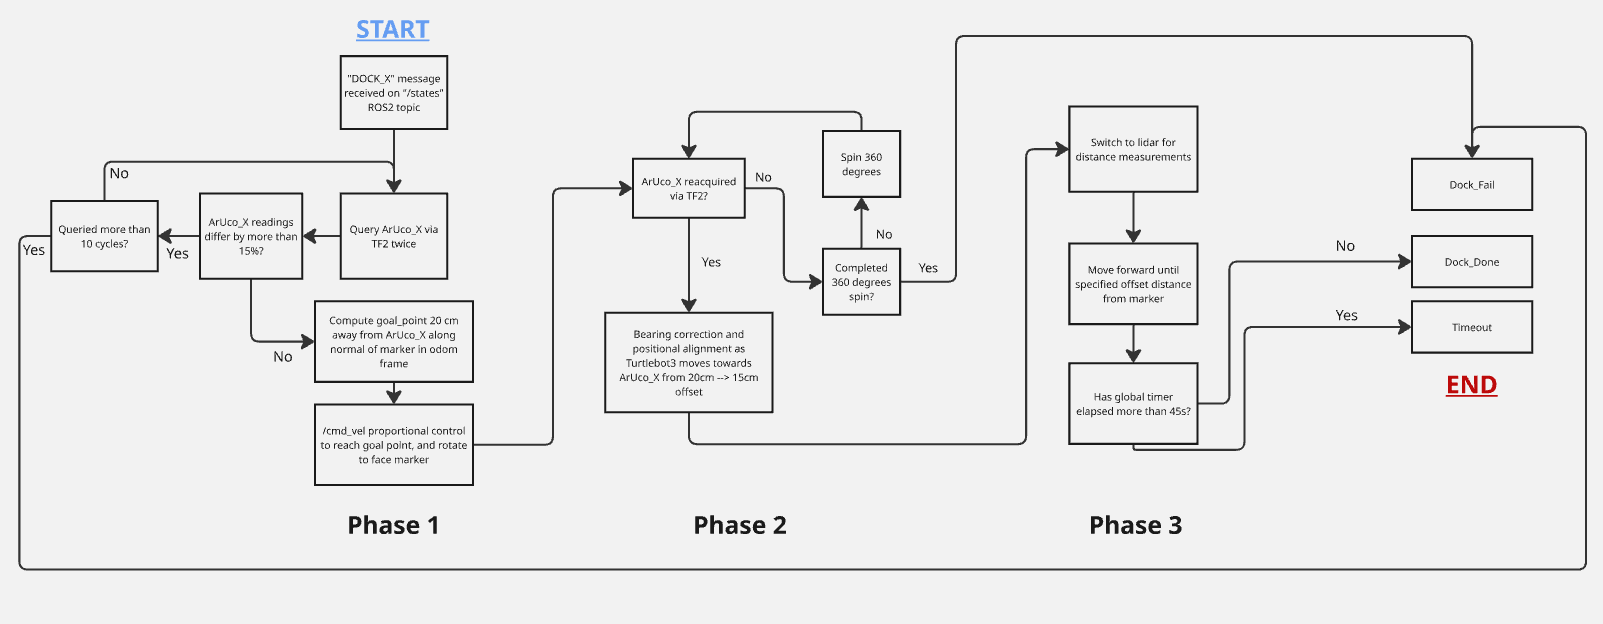
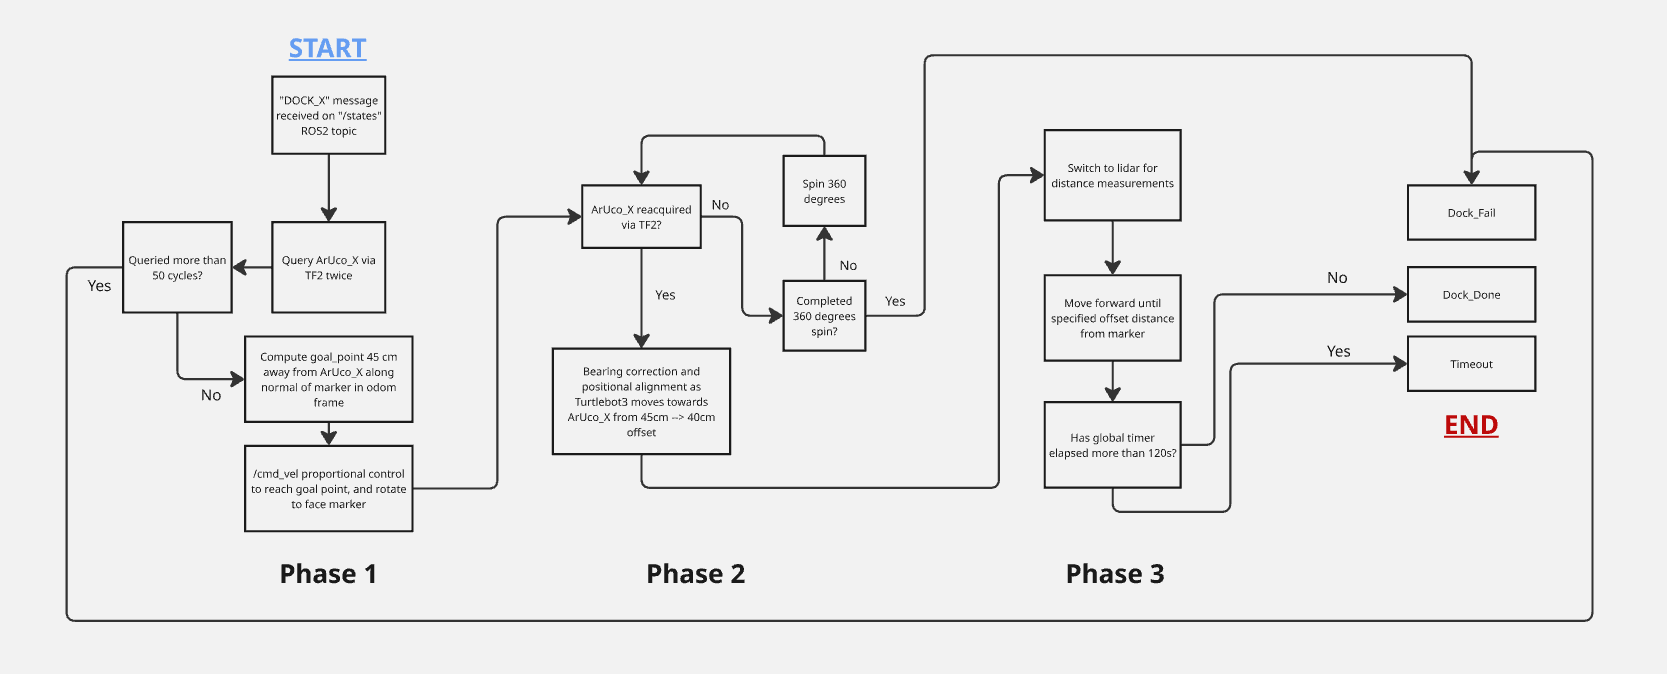
docs(node-docs): rewrite fsm/docking/exploration and add aruco_detector2, dynamic_launch, mainlaunch summaries

diff --git a/software/remote-pc/auto_nav/auto_nav/node-docs/fsm_controller.md b/software/remote-pc/auto_nav/auto_nav/node-docs/fsm_controller.md
@@ -2,11 +2,13 @@
 
 ## Overview
 
-The system is controlled using a Finite State Machine (FSM) implemented in the `fsm_controller` node.
-
-The FSM coordinates navigation, perception (ArUco detection), docking, and launching subsystems to execute the mission autonomously. Communication between subsystems is centralized via a unified `/operation_status` topic.
-
-Unlike a fixed-state FSM (e.g., DOCK_A, DOCK_B), this implementation dynamically handles multiple markers using marker IDs (e.g., `DOCK_3`, `LAUNCH_3`).
+The mission is orchestrated by the `fsm_controller` node. It publishes
+the active mission state on `/states`, listens for execution feedback
+on `/operation_status`, and polls the TF tree directly for ArUco
+markers (frames `aruco_marker_<id>`) to decide when to break out of
+exploration and begin docking. Unlike a hard-coded state set, docking
+and exploration are parameterised by the detected marker ID
+(e.g. `DOCK_3`, `EXPLORE_1`).
 
 ---
 
@@ -17,42 +19,31 @@ Unlike a fixed-state FSM (e.g., DOCK_A, DOCK_B), this implementation dynamically
 
 ## State Definitions
 
-### INIT
-System startup and initialization of all ROS2 nodes.
+### EXPLORE / EXPLORE_<id>
+Robot runs frontier-based exploration. While in this state the FSM
+continuously polls the TF tree for known markers (`aruco_marker_<id>`)
+and publishes the matching exploration sub-state:
 
----
+- `EXPLORE` — no marker targeted yet; pure frontier search.
+- `EXPLORE_<id>` — a marker is visible but still further than the
+  docking trigger threshold (0.8 m); the exploration node is told to
+  head toward it while continuing frontier search.
 
-### EXPLORE
-Robot performs exploration (e.g., frontier-based with Nav2) while searching for ArUco markers.
+Completed markers are added to a skip list and never re-detected.
 
-- Subscribes to `/aruco_pose`
-- Detects markers and extracts marker ID
-- Publishes marker ID on `/current_marker`
-- Transitions to docking when a marker is detected
+### DOCK_<id>
+Triggered when a locked-on marker comes within 0.8 m of `base_link`.
+Docking is executed by `docking_node` (three-phase: odom → TF →
+LIDAR). Up to 2 dock attempts are allowed per marker.
 
----
+### STATIC_LAUNCH / DYNAMIC_LAUNCH
+Dispatched after `DOCK_DONE` based on the docked marker ID:
 
-### DOCK_<marker_id>
-Robot docks at the detected station using the ArUco marker.
-
-- Triggered dynamically (e.g., `DOCK_3`, `DOCK_5`)
-- Docking handled by `docking_node`
-- Uses TF + LIDAR-based multi-phase docking
-- FSM tracks docking attempts for fault tolerance
-
----
-
-### LAUNCH_<marker_id>
-Robot performs payload delivery (e.g., launching ping pong balls).
-
-- Triggered after docking completes or times out
-- Marker ID is preserved (e.g., `LAUNCH_3`)
-- On completion, increments delivered marker count
-
----
+- Marker 1 → `STATIC_LAUNCH`
+- Marker 2 → `DYNAMIC_LAUNCH`
 
 ### END
-Mission complete. Robot stops all operations.
+Mission complete. FSM logs "Mission Complete!" and stops transitioning.
 
 ---
 
@@ -60,92 +51,61 @@ Mission complete. Robot stops all operations.
 
 ### Normal Operation
 
-- INIT → EXPLORE (after initialization)
-- EXPLORE → DOCK_<id> (when marker is detected)
-- DOCK_<id> → LAUNCH_<id> (on `DOCK_DONE`)
-- LAUNCH_<id> → EXPLORE (on `LAUNCH_DONE`)
-- EXPLORE → END (when map explored AND required markers completed)
+- `EXPLORE` → `EXPLORE_<id>` when a marker is spotted beyond 0.8 m
+- `EXPLORE*` → `DOCK_<id>` when the target marker is within 0.8 m
+- `DOCK_<id>` → `STATIC_LAUNCH` / `DYNAMIC_LAUNCH` on `DOCK_DONE`
+- `STATIC_LAUNCH` / `DYNAMIC_LAUNCH` → `EXPLORE` on `LAUNCH_DONE`
 
 ---
 
-### Error Handling & Recovery
+### Error Handling
 
-The FSM incorporates fault handling using `/operation_status`.
+Error feedback is received on `/operation_status`:
 
-#### Docking Failures
-- `DOCK_FAIL`:
-  - Retry docking **once**
-  - If failure occurs twice → transition to `END`
-
-#### Docking Timeout
-- `TIMEOUT`:
-  - Assumed robot is sufficiently aligned
-  - FSM proceeds directly to `LAUNCH_<id>`
-
-#### Navigation Failures
-- `NAV_FAIL`:
-  - Return to `EXPLORE`
-
-#### Launch Failures
-- `LAUNCH_FAIL`:
-  - Retry launch in the same state
-
-#### Marker Loss
-- `MARKER_LOST`:
-  - Return to `EXPLORE`
+- `DOCK_FAIL` — retry docking up to 2 attempts total. If the second
+  attempt also fails, the marker is added to the completed set (so it
+  is skipped in future) and the FSM returns to `EXPLORE`.
+- `TIMEOUT` — return to `EXPLORE`, clear target marker, reset dock
+  attempt counter.
+- `LAUNCH_FAIL` — re-publish the relevant launch state
+  (`STATIC_LAUNCH` / `DYNAMIC_LAUNCH`).
+- `NAV_FAIL`, `MARKER_LOST` — return to `EXPLORE`.
 
 ---
 
-## Communication Architecture
+## Communication
 
 ### Topics
 
-| Topic | Type | Description |
-|------|------|------------|
-| `/states` | String | FSM state commands (e.g., `DOCK_3`) |
-| `/operation_status` | String | Feedback from subsystems |
-| `/aruco_pose` | PoseStamped | Marker detection input |
-| `/current_marker` | Int32 | Current marker ID |
+| Topic | Type | Direction | Description |
+|------|------|-----------|------------|
+| `/states` | `std_msgs/String` | FSM → nodes | Mission state commands (`EXPLORE`, `EXPLORE_<id>`, `DOCK_<id>`, `STATIC_LAUNCH`, `DYNAMIC_LAUNCH`, `END`) |
+| `/operation_status` | `std_msgs/String` | nodes → FSM | Feedback strings (see below) |
 
----
+### `/operation_status` values
 
-### Message Protocol (`/operation_status`)
+**Success:** `DOCK_DONE`, `LAUNCH_DONE`, `MAP_DONE`
 
-#### Success Messages
-- `DOCK_DONE`
-- `LAUNCH_DONE`
-- `MAP_DONE`
+**Errors:** `DOCK_FAIL`, `LAUNCH_FAIL`, `NAV_FAIL`, `MARKER_LOST`,
+`TIMEOUT`, `LAUNCH_TIMEOUT`, `LAUNCH_INCOMPLETE`
 
-#### Error Messages
-- `DOCK_FAIL`
-- `LAUNCH_FAIL`
-- `NAV_FAIL`
-- `MARKER_LOST`
-- `TIMEOUT`
+### Marker discovery
+
+The FSM reads the TF tree directly (it does not subscribe to a
+dedicated marker topic). Every 0.5 s it scans for `aruco_marker_<id>`
+frames, looks up the transform to `base_link`, and uses the Euclidean
+distance to decide between `EXPLORE_<id>` and `DOCK_<id>`.
 
 ---
 
 ## Key Design Features
 
-### Dynamic Marker Handling
-- No hardcoded stations (A/B)
-- Scales to any number of markers
-
-### Centralized Feedback Channel
-- All subsystems report to `/operation_status`
-- Simplifies debugging and integration
-
-### Fault-Tolerant Execution
-- Controlled retry logic for docking
-- Graceful fallback on timeout
-- No infinite retry loops
-
-### Decoupled Architecture
-- FSM = decision-making layer
-- Execution handled by separate nodes (Nav2, docking, launcher)
-
----
-
-## Summary
-
-The FSM provides a robust, scalable, and modular control architecture for autonomous mission execution. By combining dynamic state representation, centralized communication, and fault handling—including retry logic and timeout-based fallback—the system achieves reliable operation in uncertain environments.
+- **Dynamic marker handling** — `DOCK_<id>`, `EXPLORE_<id>` scale to
+  any marker without hard-coded stations.
+- **Target locking** — once a marker is seen beyond the docking
+  threshold, the FSM locks onto that ID until completion, ignoring
+  other markers.
+- **Completed-marker skip list** — a marker that succeeds (or fails
+  twice) is added to `completed_markers` and never re-selected.
+- **Fault tolerance** — bounded dock retries, `TIMEOUT`-to-explore
+  fallback, and graceful mission-end on unrecoverable errors.

diff --git a/software/remote-pc/auto_nav/auto_nav/node-docs/exploration.md b/software/remote-pc/auto_nav/auto_nav/node-docs/exploration.md
@@ -1,26 +1,34 @@
 ## Autonomous Exploration
 
 ### SLAM and Navigation2
-In this project, SLAM is implemented using ROS 2 on the TurtleBot3 platform. The TurtleBot3 is equipped with a 2D LiDAR sensor, wheel encoders, and an onboard IMU (SLAM, 2023). These sensors provide laser scan data for obstacle detection and mapping (/scan), odometry data for motion estimation (/odom) and IMU data for orientation refinement.
+In this project, SLAM is implemented on top of ROS 2 on the TurtleBot3 platform. The TurtleBot3 is equipped with a 2D LiDAR sensor, wheel encoders, and an onboard IMU. These sensors provide laser scan data for obstacle detection and mapping (`/scan`), odometry data for motion estimation (`/odom`), and IMU data for orientation refinement.
 
-The SLAM process is carried out using SLAM Toolbox, which performs graph-based SLAM. Robot poses are represented as nodes in a graph and sensor constraints are used to optimize the map. This approach improves accuracy by reducing accumulated drift over time. (from [slam_toolbox, n.d.](https://docs.ros.org/en/humble/p/slam_toolbox/))
+The active mapping stack is **Cartographer** (launched via `turtlebot3_cartographer.launch.py`), which performs real-time graph-based SLAM. Robot poses are represented as nodes in a graph and sensor constraints are used to optimise the map, reducing accumulated drift.
 
-After the map is generated, the navigation stack Navigation2 (Nav2) is used for path planning and obstacle avoidance. Nav2 utilises the static map from SLAM, real-time costmaps for obstacle updates, a global planner to compute optimal paths and a local planner to generate safe velocity commands
-
-This enables the autonomous mobile robot (AMR) to autonomously navigate between **Station A**, **Station B**, and the optional **Station C** without prior knowledge of the maze layout.
+After the map is generated, the **Navigation2 (Nav2)** stack handles path planning and obstacle avoidance. Nav2 consumes the live occupancy grid from Cartographer, maintains real-time costmaps, and exposes the `NavigateToPose` action used by this node for all goal dispatch.
 
 ### Frontier-Based Exploration
-Frontier exploration is a widely adopted strategy for autonomous mapping. A frontier is defined as the boundary between known free space and unknown space in an occupancy grid map. By continuously identifying and navigating toward these frontiers, the robot incrementally reveals unexplored regions until the environment is fully mapped.
+A frontier is the boundary between known free space and unknown space in the occupancy grid. The explorer incrementally drives the robot toward these frontiers until the map is sufficiently complete.
 
 ![Exploration Diagram](assets/exploration_diagram.png)
 
-The workflow is as follows: 
-1. First there is Map Initialisation
-2. SLAM begins generating an occupancy grid using LiDAR and odometry data. 
-3. Unknown cells are gradually classified as free or occupied. 
-4. A frontier search algorithm scans the occupancy grid to identify boundary cells between explored and unexplored areas.
-5. Each frontier is then checked to count the number of neighboring frontiers, and distance to the robot's current position.
-6. Potential frontiers are selected based on >n number of neighbors and closes distance to the robot's current position.
-7. The selected frontier centroid is sent as a navigation goal to Nav2. 
-8. The robot then navigates to the selected frontier. 
-9. Upon reaching the frontier or after >m seconds (timeout), new areas become observable, and the cycle repeats until no significant frontiers remain.
+The workflow is as follows:
+1. Wait for `EXPLORE` (or `EXPLORE_<id>`) on `/states`.
+2. On each `/map` update the occupancy grid is scanned for frontier cells: free cells (value `0..49`) adjacent to an unknown cell (`-1`).
+3. Candidate frontiers are filtered: those too close to the robot (<1 m) or too close to walls (<1 cell from any occupied cell, where walls are cells with value ≥ 50) are rejected.
+4. For each remaining candidate, the number of nearby frontier neighbours (within 0.5 m) is counted. Frontiers with more than 5 neighbours are kept (this suppresses tiny isolated frontiers).
+5. Of the surviving candidates, the one with the **largest distance to the nearest wall** is selected as the navigation goal — this biases exploration away from tight corridors.
+6. The goal cell is converted to map coordinates and sent as a `NavigateToPose` goal to Nav2.
+7. A new goal is issued once the current one is reached (or after a 10 s timeout if progress stalls).
+
+### Marker storage and marker-directed exploration
+Alongside frontier search, the node continuously looks up every
+`aruco_marker_<id>` frame it sees in TF (relative to `map`) at 10 Hz
+and caches the full pose (position + quaternion). When the FSM
+publishes `EXPLORE_<id>` (where `<id>` identifies a marker that is
+already catalogued), the explorer switches from pure frontier search
+to a directed goal: it reconstructs the marker's facing direction from
+its stored orientation, offsets 0.5 m out along that facing direction,
+and dispatches a Nav2 goal facing back at the marker. While the marker
+is not yet catalogued, normal frontier exploration continues. Any
+non-`EXPLORE*` state cancels the current Nav2 goal.

diff --git a/software/remote-pc/auto_nav/auto_nav/node-docs/docking.md b/software/remote-pc/auto_nav/auto_nav/node-docs/docking.md
@@ -2,18 +2,46 @@
 
 ## Three-Phase Autonomous Docking
 
-Docking is handled by `docking.py`, which navigates the TurtleBot3 to align precisely in front of an ArUco marker which will be pasted left of the target docking receptacle. The node is triggered via a `DOCK_<id>` message on `/states` and reports the outcome (`DOCK_DONE`, `DOCK_FAIL`, or `TIMEOUT`) on `/operation_status`. Docking proceeds through three sequential phases.
+Docking is handled by `docking.py`, which navigates the TurtleBot3
+into alignment in front of an ArUco marker pasted next to the target
+receptacle. The node is triggered by a `DOCK_<id>` message on
+`/states` and reports the outcome (`DOCK_DONE`, `DOCK_FAIL`, or
+`TIMEOUT`) on `/operation_status`. It runs a 10 Hz control loop and
+sequences three phases.
 
-**Phase 1 — Odometry Navigation to Standoff (20 cm Default)**  
-On receiving a dock command, the node queries the ArUco marker's pose via TF2 twice and rejects readings that differ by more than 15%, ensuring a stable initial estimate. It computes a goal point 20 cm in front of the marker along its normal vector, converts that point into the odometry frame, and drives there using proportional control. On arrival, it rotates to face the marker.
+**Phase 1 — Odometry Navigation to Standoff (45 cm along the marker
+normal)**
+On receiving a dock command, the node performs a single TF lookup of
+`aruco_marker_<id>` in the `base_link` frame, extracts the marker
+normal from the rotation matrix (projected to XY, flipped to point
+toward the robot), and computes a standoff goal `nav_standoff` metres
+(default 0.45 m) in front of the marker along that normal. The goal is
+then converted to the `odom` frame and driven to with P-control on
+translation and heading. Position tolerance is 5 cm; on arrival the
+robot rotates to face the marker. A 40 s Phase-1 timeout aborts the
+attempt if the standoff cannot be reached.
 
-**Phase 2 — TF-Based Fine Approach (20 cm → 15 cm Default)**  
-The node re-acquires the marker through TF2 with exponential moving average (EMA) smoothing applied to both position and orientation to reduce noise. It drives forward while blending two angular corrections: a bearing correction (to keep the marker centred at distance) and a heading alignment (to face the marker's normal up close). The phase completes once the robot holds lateral alignment within 0.5 cm for 0.5 s. If the marker is lost for more than 2 s, a 360° recovery spin is attempted; if the marker is not re-acquired by the end of the spin, docking is aborted.
+**Phase 2 — TF-Based Fine Approach (45 cm → 40 cm)**
+The node re-acquires the marker via TF with an exponential moving
+average (α = 0.35) applied to both position and normal. Angular
+control blends a bearing correction (keep marker centred) at distance
+with heading alignment (face the marker's normal) up close. The phase
+completes once the robot holds both lateral alignment within 3 cm and
+distance error within 3 cm for five consecutive ticks (0.5 s). If the
+marker is lost for more than ~2 s, a 360° recovery spin at 0.1 rad/s
+is performed while polling TF; if the marker is re-acquired the fine
+approach resumes, otherwise `DOCK_FAIL` is published.
 
-**Phase 3 — LIDAR Final Approach (15 cm → 8 cm)**  
-With heading already aligned from Phase 2, the node switches entirely to forward-facing LIDAR for distance measurement. Making use of the reading, the TurtleBot3 drives slowly to the 8 cm standoff distance and stops, then publishes `DOCK_DONE`.
+**Phase 3 — LIDAR Final Approach (to 20 cm)**
+Heading is already aligned from Phase 2's blended angular control, so
+Phase 3 uses only forward LIDAR (a 3° half-arc centred on 0 rad) for
+distance measurement and drives at a constant 1 cm/s until within the
+3 cm final tolerance of the 20 cm standoff distance, then publishes
+`DOCK_DONE`.
 
-A 45 s global safety timer aborts the sequence at any point if docking stalls and exceeds this 45s safety timer.
+A 120 s global safety timer aborts the sequence if it stalls, and the
+node will also bail out with `DOCK_FAIL` if either the odom TF or the
+marker TF lookup fails 50 times in a row.
 
 **Flowchart**
 ![Docking Flowchart](assets/docking_flowchart.png)

diff --git a/software/remote-pc/auto_nav/auto_nav/node-docs/dynamic_launch.md b/software/remote-pc/auto_nav/auto_nav/node-docs/dynamic_launch.md
@@ -1,0 +1,16 @@
+# Dynamic Launcher (`dynamic_launch.py`)
+
+`dynamic_launch.py` runs on the remote PC and owns all launcher
+sequencing logic. It subscribes to `/states` and activates in one of
+two modes: `STATIC_LAUNCH` (fires 3 balls with a 5.5 s cooldown after
+a brief spin-up) or `DYNAMIC_LAUNCH` (polls TF at 10 Hz for
+`aruco_marker_<target_marker_id>`, and when a **fresh** transform is
+available — `header.stamp` age ≤ 0.2 s — waits `launch_delay` seconds,
+re-checks freshness, then fires one ball; repeats until `max_shots`
+shots have been taken, subject to `shot_cooldown`). Launcher primitives
+(`SPIN`, `FIRE`, `STOP`) are published on `/arduino_cmd`, which an RPi
+bridge node forwards over serial to the Arduino; the Arduino's raw
+replies return on `/arduino_response` for logging. Completion is
+reported on `/operation_status` as `LAUNCH_DONE`, `LAUNCH_TIMEOUT`
+(no shot fired before `node_timeout`, default 30 s), or
+`LAUNCH_INCOMPLETE` (timeout after a partial sequence).

diff --git a/software/remote-pc/auto_nav/auto_nav/node-docs/aruco_detector2.md b/software/remote-pc/auto_nav/auto_nav/node-docs/aruco_detector2.md
@@ -1,0 +1,15 @@
+# ArUco Detector (`aruco_detector2.py`)
+
+`aruco_detector2.py` is the perception node for marker detection. It
+subscribes to `/camera/image_raw/compressed` (`sensor_msgs/CompressedImage`)
+with a BEST_EFFORT QoS, decodes each frame to BGR, and caches a
+grayscale snapshot in an internal buffer. At a configurable frequency
+(default 20 Hz) a timer callback runs
+`cv2.aruco.detectMarkers` on the latest frame using the `DICT_4X4_50`
+dictionary. For every detected marker it solves `cv2.solvePnP`
+(`SOLVEPNP_IPPE_SQUARE`) against hard-coded camera intrinsics and the
+configured `marker_size` (default 5 cm) to recover pose, converts the
+rotation vector to a quaternion, and broadcasts it on TF as
+`aruco_marker_<id>` with parent frame `camera_optical_frame`. The node
+exposes `verbose`, `frequency`, `marker_size`, and `benchmark`
+parameters for runtime tuning.

diff --git a/software/remote-pc/auto_nav/auto_nav/node-docs/mainlaunch.md b/software/remote-pc/auto_nav/auto_nav/node-docs/mainlaunch.md
@@ -1,0 +1,13 @@
+# Main Launcher (`mainlaunch.py`)
+
+`mainlaunch.py` is a lightweight Python process supervisor (not a ROS
+`launch.py` file) that brings up the full remote-PC stack with a
+single command. It spawns each of the following as an independent
+`subprocess.Popen` shell command and monitors them for unexpected
+exits: `fsm_controller`, `docking` (with `verbose:=True`),
+`turtlebot3_cartographer` (SLAM), `turtlebot3_navigation2` (Nav2),
+`exploration`, and `aruco_detector2` (`verbose:=False`,
+`marker_size:=0.05`). A `SIGINT`/`SIGTERM` handler terminates every
+child process cleanly on Ctrl+C, falling back to `kill` after a 5 s
+grace period. The `show_logs` flag per entry determines whether a
+node's stdout/stderr is streamed to the terminal or suppressed.
